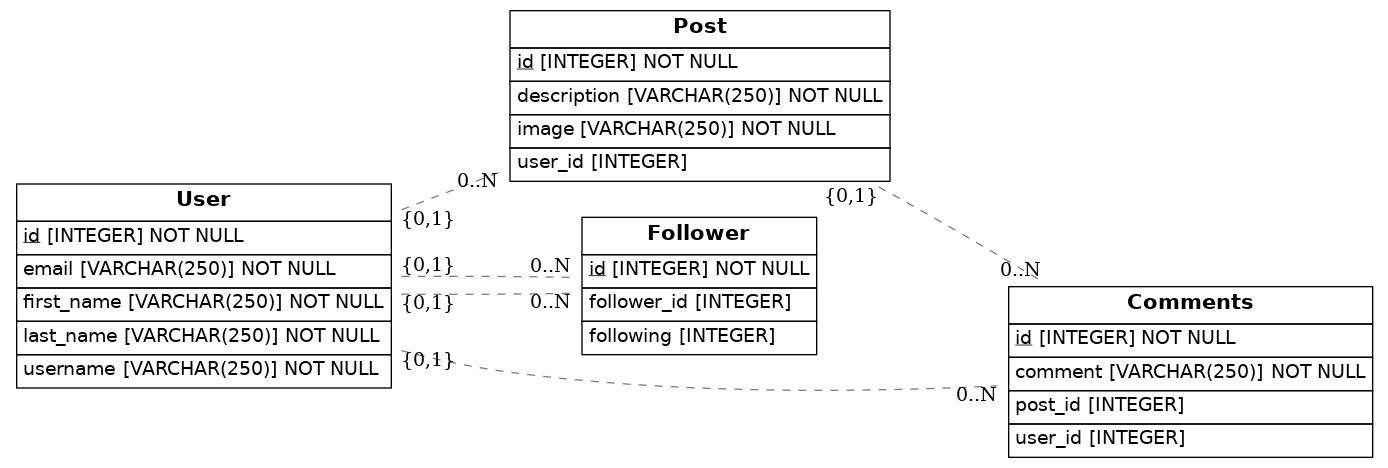
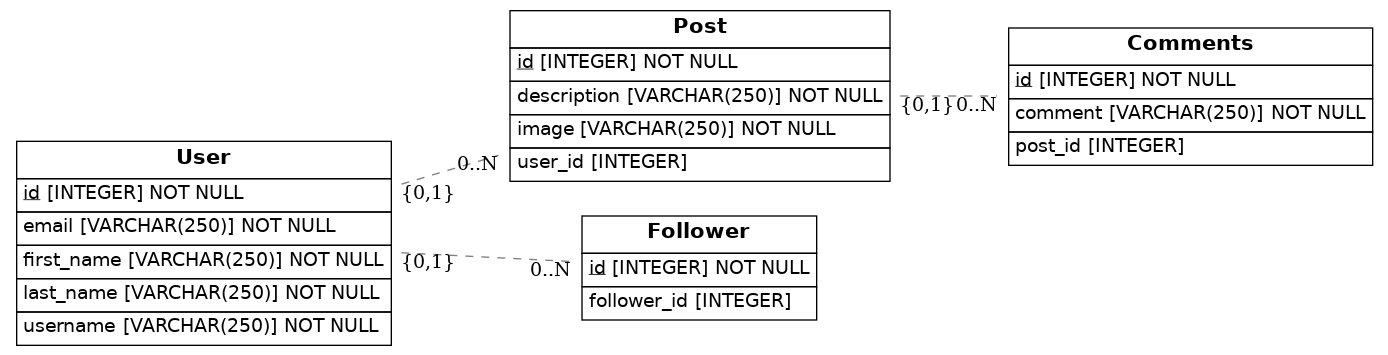
Ejercicio corregido

diff --git a/src/models.py b/src/models.py
@@ -48,17 +48,15 @@ class Follower(Base):
     __tablename__ = 'Follower'
     id = Column(Integer, primary_key=True)
     follower_id = Column(Integer, ForeignKey('User.id'))
-    user = relationship(User)
-    following = Column(Integer, ForeignKey('User.id'))
-    user = relationship(User)
+    follower = relationship(User)
 
 class Comments(Base):
     __tablename__ = 'Comments'
     id = Column(Integer, primary_key=True)
     post_id = Column(Integer, ForeignKey('Post.id'))
-    user = relationship(Post)
+    post = relationship(Post)
     user_id = Column(Integer, ForeignKey('User.id'))
-    user = relationship(User)
+    user_id = relationship(User)
     comment = Column(String(250), nullable=False)
 
     
